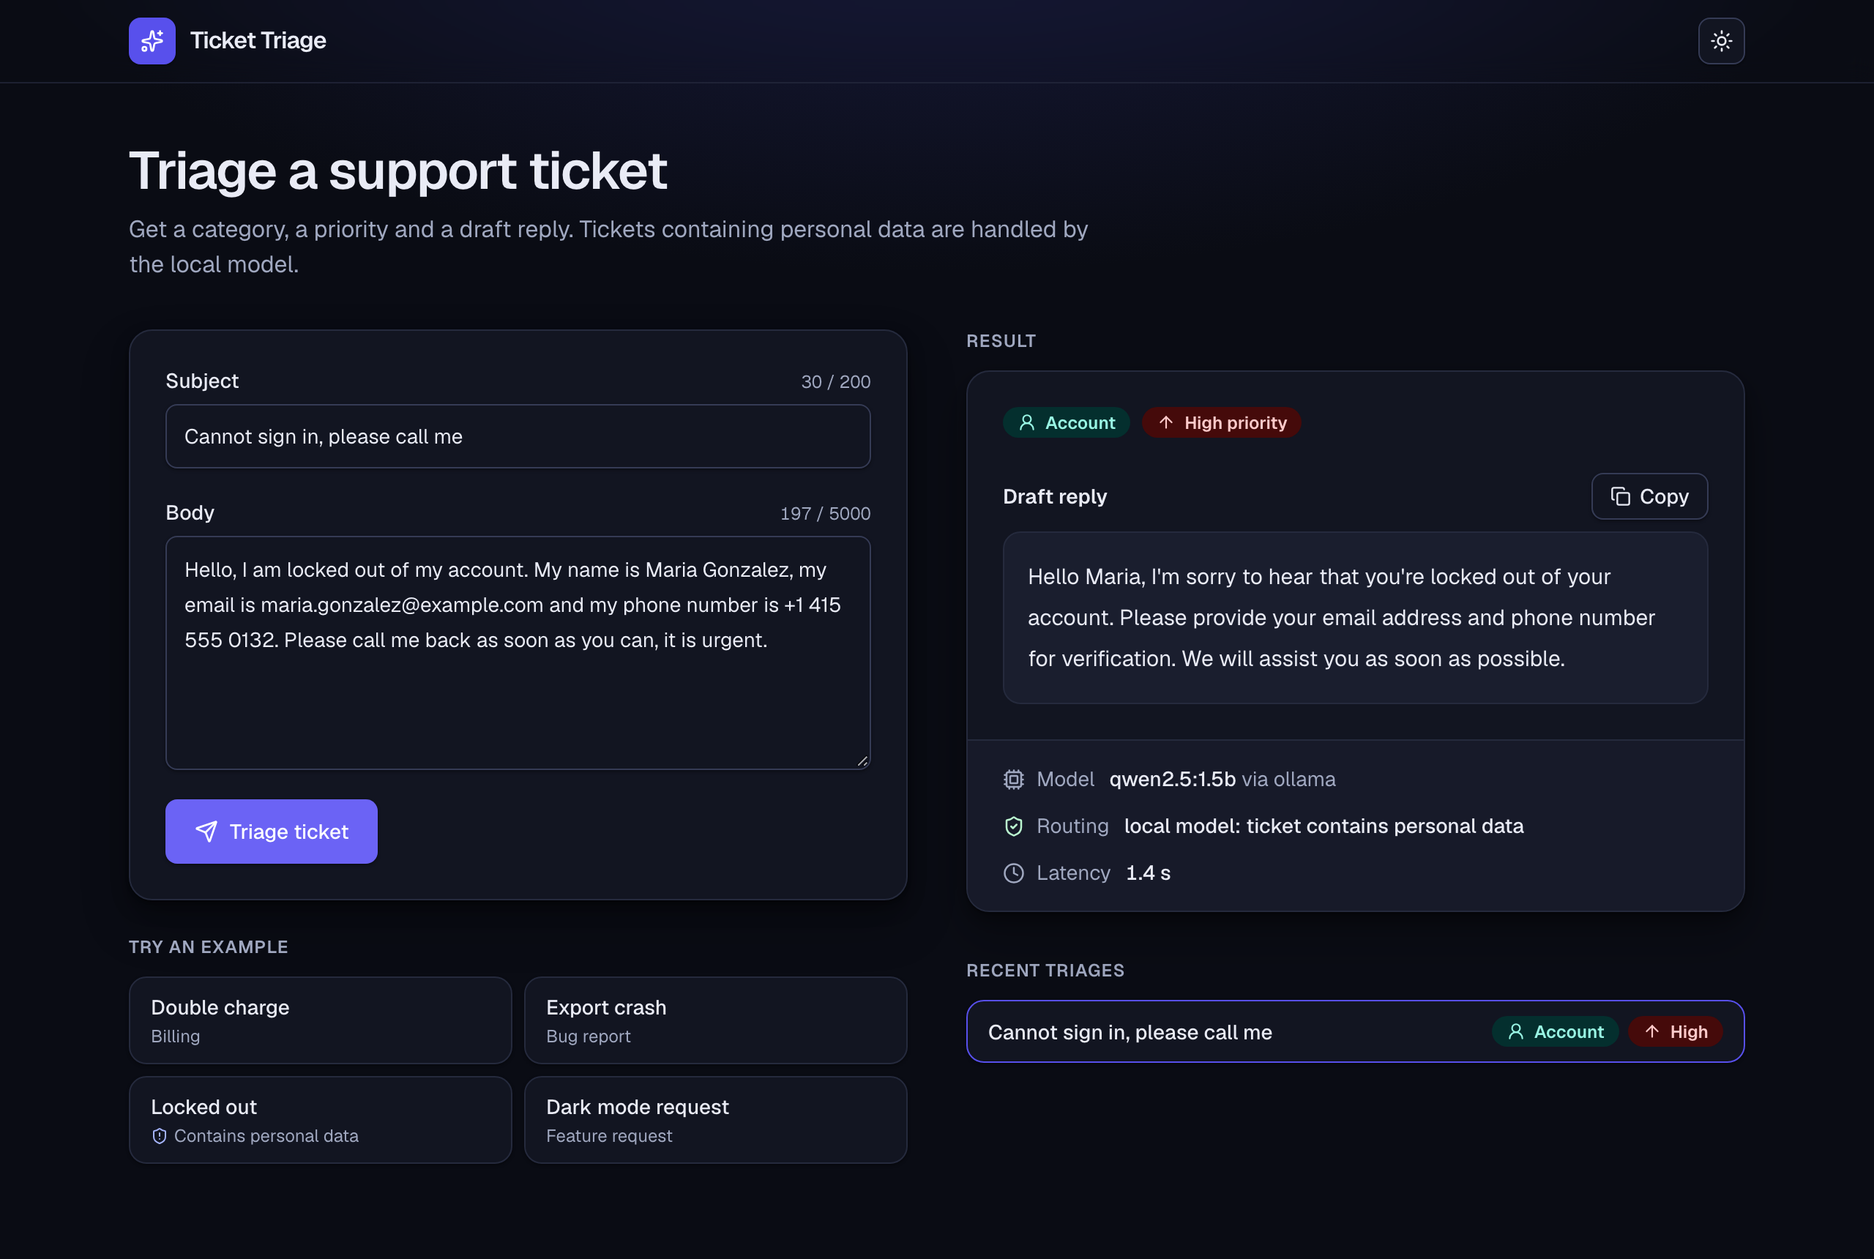
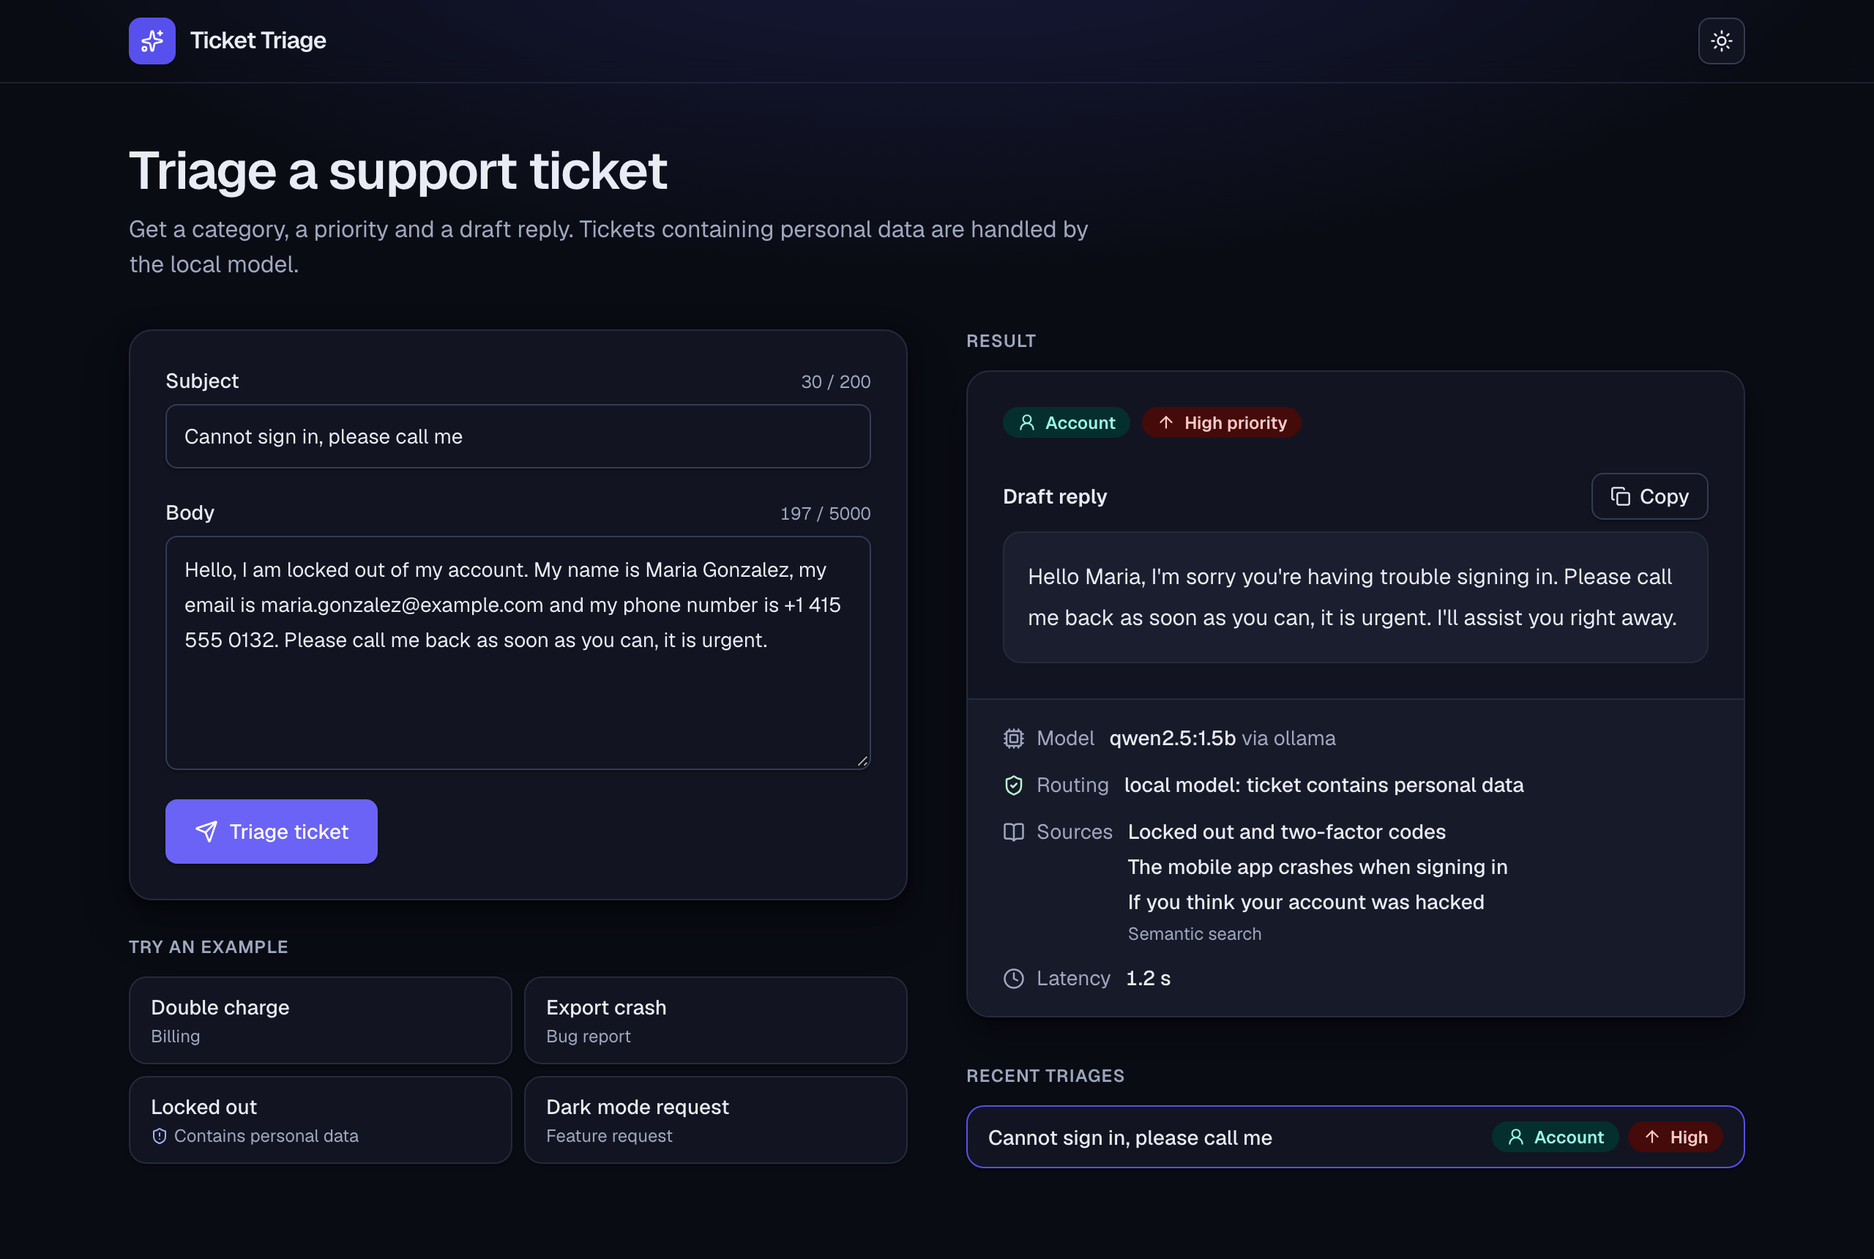
docs: document retrieval, real eval numbers and screenshots

diff --git a/README.md b/README.md
@@ -2,21 +2,22 @@
 
 [![CI](https://github.com/sppant/ticket-triage/actions/workflows/ci.yml/badge.svg)](https://github.com/sppant/ticket-triage/actions/workflows/ci.yml)
 
-A support-ticket triage service. `POST /triage` takes a ticket and returns a category, a priority and a draft reply. A router sends tickets that contain personal data (email, phone, card-like number) to a free local open-weight model via Ollama, and everything else to a hosted Claude model when `ANTHROPIC_API_KEY` is set (otherwise to the local model). Model output is validated with Zod, retried once, then fails with a 502. The repo also has a Next.js UI, an evaluation harness, OpenTelemetry tracing with structured logs, and a read-only MCP server. Everything runs on a laptop; nothing is deployed.
+A support-ticket triage service. `POST /triage` takes a ticket and returns a category, a priority and a draft reply grounded in the three most relevant help-center articles (retrieval-augmented generation with a local embedding model and no vector database). A router sends tickets that contain personal data (email, phone, card-like number) to a free local open-weight model via Ollama, and everything else to a hosted Claude model when `ANTHROPIC_API_KEY` is set (otherwise to the local model). Model output is validated with Zod, retried once, then fails with a 502. The repo also has a Next.js UI, an evaluation harness (including retrieval hit rate), OpenTelemetry tracing with structured logs, and a read-only MCP server that searches the knowledge base. Everything runs on a laptop; nothing is deployed.
 
 |                                          |                                        |
 | ---------------------------------------- | -------------------------------------- |
 | ![Light mode](docs/screenshot-light.png) | ![Dark mode](docs/screenshot-dark.png) |
 
-_Screenshots are of the running app talking to the local `qwen2.5:1.5b` model, on the "Locked out" example (it contains personal data, so it is routed locally)._
+_Screenshots are of the running app talking to the local `qwen2.5:1.5b` model, on the "Locked out" example (it contains personal data, so it is routed locally). Sources are the retrieved help-center articles._
 
 ## Quick start
 
 Requires Node 22 (`nvm use`) and [Ollama](https://ollama.com/download).
 
 ```bash
-# 1. local model (any small instruct model works; this is the default)
+# 1. local models: a small instruct model and the embedding model for retrieval
 ollama pull qwen2.5:1.5b
+ollama pull nomic-embed-text
 
 # 2. API on :3001
 npm ci
@@ -45,13 +46,19 @@ curl -s localhost:3001/triage -H 'content-type: application/json' -d '{
   "priority": "high",
   "draft_reply": "…",
   "model": "qwen2.5:1.5b",
-  "latency_ms": 1320,
+  "latency_ms": 2824,
   "provider": "ollama",
-  "route_reason": "local model: ticket contains personal data"
+  "route_reason": "local model: ticket contains personal data",
+  "sources": [
+    "Duplicate charges and failed payments",
+    "Charges you do not recognise",
+    "Duplicate email notifications"
+  ],
+  "retrieval": "embedding"
 }
 ```
 
-`provider` and `route_reason` are additions to the original response shape so the UI can show why a model was chosen. Invalid input returns 400; invalid model output after one retry, or a provider failure, returns 502. OpenAPI: Swagger UI at `/docs`, JSON at `/docs-json`.
+`provider` and `route_reason` let the UI show why a model was chosen; `sources` are the titles of the retrieved articles that were given to the model, and `retrieval` is `embedding` or `keyword` (see below). Invalid input returns 400; invalid model output after one retry, or a provider failure, returns 502. OpenAPI: Swagger UI at `/docs`, JSON at `/docs-json`.
 
 ## How the router decides
 
@@ -67,7 +74,8 @@ flowchart LR
   UI[Web UI<br/>Next.js] -->|POST /triage| API
   Client[API client] -->|POST /triage| API
   subgraph API [NestJS API]
-    V[Zod input validation] --> R{Router}
+    V[Zod input validation] --> RT[Retrieve top 3 articles<br/>embedding, else keyword]
+    RT --> R{Router}
     R -->|personal data| L[Ollama provider]
     R -->|no personal data + key| H[Anthropic provider]
     R -->|no personal data, no key| L
@@ -76,33 +84,70 @@ flowchart LR
   end
   API -.spans + JSON logs.-> OT[(console / OTLP)]
   Eval[npm run eval] --> O
-  MCP[MCP server<br/>find_similar_tickets] --> DS[(eval/dataset.jsonl)]
-  Eval --> DS
+  KB[(kb/ articles)] --> RT
+  MCP[MCP server<br/>search_knowledge_base] --> KB
+  Eval --> KB
+  Eval --> DS[(eval/dataset.jsonl)]
+```
+
+## Retrieval (RAG)
+
+The knowledge base is the 20 short synthetic help-center articles in [`kb/`](kb/) (billing, bugs, account, features and a few general topics; no real data).
+
+- **Startup:** the API embeds every article with a local Ollama embedding model (`EMBEDDING_MODEL`, default `nomic-embed-text`) and keeps the vectors in memory. There is no vector database and nothing is written to disk.
+- **Per ticket:** subject and body are embedded by the same local model, the three articles with the highest cosine similarity are retrieved, and their titles and text are put in the prompt before the ticket. The response lists their titles as `sources` with `retrieval: "embedding"`. Ticket text is only ever embedded by the local model, including for tickets without personal data, and is not logged.
+- **Fallback:** if the embedding model is unavailable (not pulled, Ollama down, or a request times out) the service uses keyword search instead: a word-overlap score over title and text, whole words only, stop-words ignored. The response then says `retrieval: "keyword"` and the request still succeeds. If the index could not be built at startup, a later request tries again. With `TRIAGE_PROVIDER=fake` retrieval is keyword-only, so tests and CI need no model.
+- The same retrieval backs the MCP tool `search_knowledge_base`.
+
+```mermaid
+flowchart LR
+  T[Ticket] --> E[Embed with Ollama<br/>nomic-embed-text]
+  E --> C[Cosine similarity vs.<br/>in-memory article vectors]
+  C -->|top 3| P[Prompt context]
+  E -. model unavailable .-> K[Keyword search]
+  K -->|top 3| P
+  P --> M[Router-chosen model]
 ```
 
 ## Evaluation
 
-`npm run eval` runs every available provider over the 40 synthetic tickets in [`eval/dataset.jsonl`](eval/dataset.jsonl) through the same pipeline the API uses (prompt, JSON validation, one retry) and writes `eval/results.md`. A provider that is not available (no Ollama model, no API key) is reported as skipped and gets no numbers. The fake provider is excluded unless `EVAL_INCLUDE_FAKE=1`.
+`npm run eval` runs every available provider over the 40 synthetic tickets in [`eval/dataset.jsonl`](eval/dataset.jsonl) through the same pipeline the API uses (retrieval, prompt, JSON validation, one retry) and writes `eval/results.md`. Each ticket also records the knowledge-base article that should be retrieved, and the eval reports the top-3 retrieval hit rate for each retrieval mode that can run. A provider or mode that is not available (no Ollama model, no embedding model, no API key) is reported as skipped and gets no numbers. The fake provider is excluded unless `EVAL_INCLUDE_FAKE=1`.
 
-Results, run on a laptop (macOS 14, Ollama 0.40.18, sequential requests, wall-clock latency including any retry):
+Measured on a laptop (macOS 14, Ollama 0.40.18, sequential requests, wall-clock latency including retrieval and any retry). One ticket is 2.5 points, so differences of a few points are noise.
 
-| Provider  | Model                       | Category acc. | Priority acc. | Errors | Avg latency | Est. cost / 1,000 tickets |
-| --------- | --------------------------- | ------------- | ------------- | ------ | ----------- | ------------------------- |
-| ollama    | llama3.2:1b (first prompt)  | 52.5%         | 55.0%         | 0      | 1563 ms     | $0 (local)                |
-| ollama    | qwen2.5:1.5b (first prompt) | 92.5%         | 50.0%         | 0      | 1579 ms     | $0 (local)                |
-| ollama    | qwen2.5:1.5b (**current**)  | 90.0%         | 57.5%         | 0      | 1323 ms     | $0 (local)                |
-| anthropic | claude-haiku-5-5            | **not run**   | **not run**   | –      | –           | **not run**               |
+**Triage accuracy**
 
-The hosted model was **not evaluated**: no `ANTHROPIC_API_KEY` was available when this was written, so there are no accuracy, latency or cost numbers for it, and I have not estimated them. The cost column is computed from measured token counts and the prices in `.env.example` (`EVAL_ANTHROPIC_*_PER_MTOK`) once a key is set.
+| Model                                                            | Retrieval      | Category acc. | Priority acc. | Errors | Avg latency | Est. cost / 1,000 tickets |
+| ---------------------------------------------------------------- | -------------- | ------------- | ------------- | ------ | ----------- | ------------------------- |
+| llama3.2:1b, first prompt                                        | none (pre-RAG) | 52.5%         | 55.0%         | 0      | 1563 ms     | $0 (local)                |
+| qwen2.5:1.5b, first prompt                                       | none (pre-RAG) | 92.5%         | 50.0%         | 0      | 1579 ms     | $0 (local)                |
+| qwen2.5:1.5b, + priority guide                                   | none (pre-RAG) | 90.0%         | 57.5%         | 0      | 1323 ms     | $0 (local)                |
+| qwen2.5:1.5b, current prompt, no articles (`KB_DIR` = empty dir) | none           | 87.5%         | 55.0%         | 0      | 1237 ms     | $0 (local)                |
+| **qwen2.5:1.5b, current prompt (shipped)**                       | **embedding**  | **75.0%**     | **57.5%**     | 0      | 2115 ms     | $0 (local)                |
+| claude-haiku-5-5                                                 | –              | **not run**   | **not run**   | –      | –           | **not run**               |
 
-The "current" row uses a system prompt that gained a short priority guide (high = blocked / outage / data loss / money wrongly taken, low = general question, medium = the rest) after the first `qwen2.5:1.5b` run showed weak priority accuracy. That is one round of prompt tuning against this same 40-ticket set, so treat the improvement as indicative, not as a held-out result. With 40 tickets, one ticket is 2.5 points; differences of a few points are noise.
+**Retrieval** (is the expected article among the 3 retrieved? embedding index built with `nomic-embed-text`)
 
-**Which model would I choose?** Of the two local models I measured, `qwen2.5:1.5b`: at about the same latency it classifies category far better than `llama3.2:1b` (90% vs 52.5%). For tickets with personal data the local model is the only option by design, so that is what they get. Priority is the weak spot, at 57.5% for the best local run, so I would use the model's priority as a suggestion for a human to confirm, not to act on automatically. I cannot say whether the hosted model is worth its cost for non-personal tickets, because I did not run it; the right next step is `ANTHROPIC_API_KEY=… npm run eval` and a comparison on these same columns, especially priority accuracy.
+| Mode      | Top-3 hit rate | Hits  | Avg retrieval latency |
+| --------- | -------------- | ----- | --------------------- |
+| embedding | 100.0%         | 40/40 | 20 ms                 |
+| keyword   | 97.5%          | 39/40 | < 1 ms                |
+
+What these numbers do and do not say:
+
+- **The retrieval hit rates are optimistic.** The articles, the tickets and the expected-article labels were all written by the same author with the dataset in view, so each article mirrors the wording of the tickets it answers. Treat 100% as a check that the pipeline works, not as evidence it would generalise to real tickets; keyword search being almost as good says the test is easy.
+- **Retrieval made category accuracy worse for this small model.** With the same prompt, giving `qwen2.5:1.5b` three articles dropped category accuracy from 87.5% to 75.0% (5 tickets) and added about 0.9 s per ticket; priority moved from 55.0% to 57.5%, which is within noise. A first version of the prompt scored 70.0% / 65.0%; I then added "choose category and priority from the ticket alone" and re-ran, which gave the shipped 75.0% / 57.5%. That is two rounds of prompt tuning on the same 40 tickets. I did not try other mitigations (for example classifying in a separate call without articles, or a larger model).
+- **Reply quality is not measured.** The eval has no metric for whether draft replies use the articles well; the retrieval hit rate only shows that the right article reached the prompt. In the two replies I read while building this, one used article content (the double-charge reply asked for the last four digits of the card and the charge dates) and one did not (the locked-out reply in the screenshot).
+- The "current prompt, no articles" row is reproducible with `KB_DIR=$(mktemp -d) npm run eval`.
+- The hosted model was **not evaluated**: no `ANTHROPIC_API_KEY` was available, so there are no accuracy, latency or cost numbers for it and I have not estimated them. The cost column is computed from measured token counts and the prices in `.env.example` once a key is set.
+
+**Which model would I choose?** Locally, `qwen2.5:1.5b` over `llama3.2:1b` (category 87–92% vs 52.5% before retrieval was added, at similar latency). Personal-data tickets can only use the local model by design. For this small model I would not claim retrieval helps the labels: it hurt category accuracy here, so I would treat category and priority as suggestions for a human to confirm, and judge retrieval by reply quality, which I have not measured. Whether the hosted model is worth its cost for non-personal tickets I cannot say, because I did not run it; the next step is `ANTHROPIC_API_KEY=… npm run eval` and a comparison on these same columns.
 
 Reproduce:
 
 ```bash
 ollama pull qwen2.5:1.5b
+ollama pull nomic-embed-text   # without it only keyword retrieval is evaluated
 npm ci
 npm run eval                                    # local model
 ANTHROPIC_API_KEY=sk-ant-... npm run eval       # also the hosted model
@@ -115,7 +160,7 @@ Each request produces a `triage.request` span with a child `model.call` span car
 
 ## MCP server
 
-A read-only stdio MCP server in [`mcp/`](mcp/README.md) with one tool, `find_similar_tickets(query)`, which keyword-searches the eval dataset and returns the top 3 tickets.
+A read-only stdio MCP server in [`mcp/`](mcp/README.md) with one tool, `search_knowledge_base(query)`, which uses the same retrieval as the API (embeddings from local Ollama, keyword fallback) and returns the top 3 help-center articles and the retrieval mode.
 
 ```json
 {
@@ -134,9 +179,10 @@ Or with Claude Code: `claude mcp add ticket-triage -- /absolute/path/to/ticket-t
 
 ```
 specs/          actors, use cases, features, acceptance criteria (tests cite AC-ids)
-src/            NestJS API: triage/, router/, pii/, providers/, observability/
+src/            NestJS API: triage/, router/, pii/, providers/, retrieval/, observability/
 test/           e2e test of POST /triage with the fake provider
-eval/           dataset.jsonl, runner, metrics, report
+kb/             help-center articles (Markdown) used for retrieval
+eval/           dataset.jsonl (with expected article), runner, metrics, report
 mcp/            MCP server and its README
 web/            Next.js UI, Storybook stories, Playwright test
 docs/           how-it-was-built.md, screenshots
@@ -145,7 +191,7 @@ docs/           how-it-was-built.md, screenshots
 ## Tests
 
 ```bash
-npm run lint && npm run typecheck && npm test      # API, eval, MCP (110 tests, no network or model needed)
+npm run lint && npm run typecheck && npm test      # API, eval, MCP (131 tests, no network or model needed)
 npm run test:cov                                   # coverage
 cd web && npm ci && npm run lint && npm run typecheck && npm run build
 cd web && npx playwright install chromium && npm run test:e2e   # starts the API with the fake provider and the web app

diff --git a/docs/how-it-was-built.md b/docs/how-it-was-built.md
@@ -33,7 +33,24 @@ This is a short, factual account of how the repository was produced.
 
 Unit C's first version of the MCP keyword search matched substrings. A manual stdio smoke run showed that the query word "on" matched "subscription", returning noise. The agent changed matching to whole words after tokenising, dropped common stop-words, and added a test (`mcp/search.spec.ts`: "matches whole words only, so "on" does not match "subscription""). The unit tests written against the acceptance criteria had not caught it, because AC-M2 says "ranked by the number of query keywords found" without saying whether a keyword is a substring or a word; the spec should state this.
 
+## Retrieval (second iteration, branch `feat/rag`)
+
+Retrieval was added afterwards on its own branch, merged with a merge commit. This time there were no subagents: it was done in one session, in the same order as before.
+
+1. **Specs first:** a retrieval use case (UC11), features F17-F21 and acceptance criteria AC-K1..K8 were added; the MCP, eval and API criteria that change (AC-M*, AC-E1, AC-E7/E8, AC-A1, AC-W2) were rewritten in the same commit. The spec now says the MCP server may call the local embedding model, so "no network access" no longer holds for it.
+2. **Knowledge base:** 20 synthetic articles in `kb/`, and an `article` field added to each of the 40 dataset tickets by hand (each article is the expected hit for at least one ticket).
+3. **Code:** a `src/retrieval/` module (cosine similarity, keyword search, Ollama embedder, in-memory index with fallback), wired into the triage service; `runTriage` takes the retrieved articles as context; the fake provider mentions the first article so a test can see context reaching the model. The MCP tool `find_similar_tickets`, its dataset loader and its tests were deleted and replaced by `search_knowledge_base`. The old keyword search was moved into `src/retrieval/keyword.ts`.
+4. **Tests:** fixture-vector tests for similarity, top-3 ranking, fallback (no embedder, failed indexing, failed query embedding, index built on a later request); an e2e test for the keyword path and one for the embedding path with an injected knowledge base. Total tests went from 110 to 131. None need a model.
+
+What the real run showed, and what changed because of it:
+
+- The first full eval with retrieval gave category accuracy of 70.0% against 90.0% before retrieval. I added "choose category and priority from the ticket alone" to the prompt, which gave 75.0%. To separate the effect of the prompt from the effect of the articles I re-ran with an empty knowledge base directory (87.5%), so most of the drop comes from the articles, not the prompt wording. I stopped tuning there; the numbers and the caveats are in the README.
+- The retrieval hit rate came out at 100% (embedding) and 97.5% (keyword). Because the articles and labels were written together with the dataset, this is recorded in the README as an optimistic check, not a generalisation result.
+- A test I wrote for AC-K1 failed on its own email regex (it matched a trailing full stop); the regex was fixed, not the articles.
+- The unit C substring-matching bug described above no longer applies to the code, which was replaced; its whole-word rule and test were carried over into `src/retrieval/keyword.ts` and `keyword.spec.ts`.
+
 ## Not verified
 
 - The hosted (Anthropic) provider has only run against a mocked client: no API key was available. The hosted model was not evaluated.
+- Reply quality with retrieval is not measured: the eval only measures label accuracy and whether the expected article was retrieved.
 - The OTLP exporter path was checked once by the unit C agent against a local HTTP listener with a throwaway script, not in the test suite.
